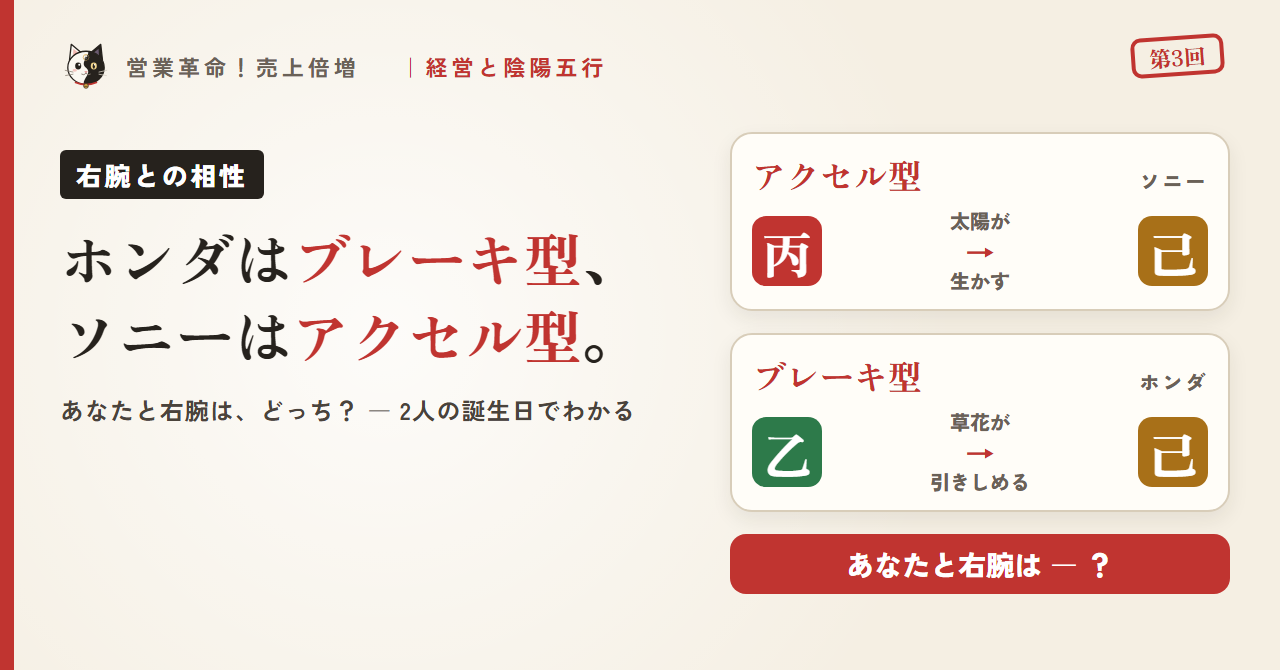
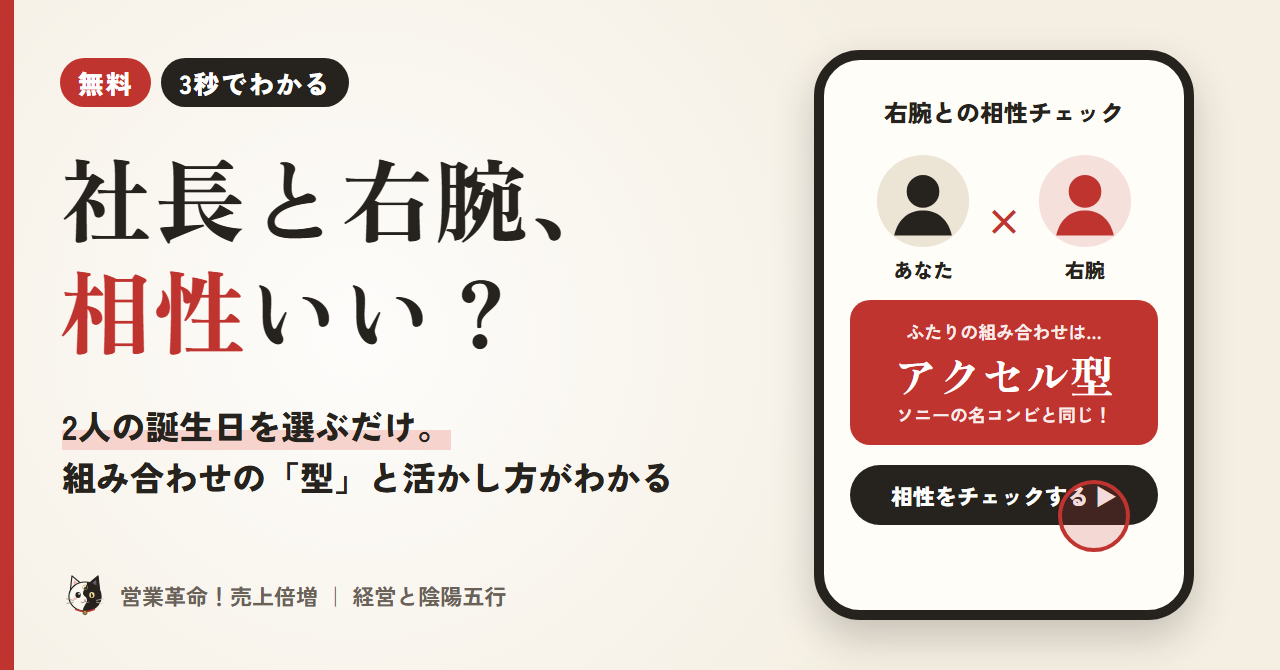
アクセス測定の準備（GA4、測定IDを入れるまで無効）と、相性チェックのシェア画像を一般向けに変更

diff --git a/index.html b/index.html
@@ -14,6 +14,7 @@
 <meta property="og:site_name" content="営業革命！売上倍増コンテンツ集">
 <meta property="og:locale" content="ja_JP">
 <meta name="twitter:card" content="summary_large_image">
+<script src="analytics.js"></script>
 <link rel="preconnect" href="https://fonts.googleapis.com">
 <link rel="preconnect" href="https://fonts.gstatic.com" crossorigin>
 <link href="https://fonts.googleapis.com/css2?family=Zen+Old+Mincho:wght@600;900&family=Zen+Kaku+Gothic+New:wght@400;700;900&display=swap" rel="stylesheet">
@@ -269,12 +270,16 @@ footer { text-align: center; font-size: .8rem; color: var(--ink-soft); padding: 
     const text = `わたしの日干は「${t.k}（${t.yomi}）＝${t.tatoe}」でした。あなたは10人のうちだれ？ #経営と陰陽五行`;
     $('shareX').href = 'https://twitter.com/intent/tweet?text=' + encodeURIComponent(text) + '&url=' + encodeURIComponent(url);
     $('shareLine').href = 'https://social-plugins.line.me/lineit/share?url=' + encodeURIComponent(url) + '&text=' + encodeURIComponent(text);
+    $('shareX').onclick = () => qmTrack('share', { tool: 'nikkan', method: 'x' });
+    $('shareLine').onclick = () => qmTrack('share', { tool: 'nikkan', method: 'line' });
     $('copy').onclick = () => {
+      qmTrack('share', { tool: 'nikkan', method: 'copy' });
       (navigator.clipboard ? navigator.clipboard.writeText(url) : Promise.reject())
         .then(() => { $('copy').textContent = 'コピーしました'; })
         .catch(() => { prompt('このリンクをコピーしてください', url); });
     };
 
+    qmTrack('check_done', { tool: 'nikkan', result: t.k + '_' + t.tatoe });
     $('result').hidden = false;
     $('hero').scrollIntoView({ behavior: 'smooth', block: 'start' });
   }

diff --git a/aisho.html b/aisho.html
@@ -14,6 +14,7 @@
 <meta property="og:site_name" content="営業革命！売上倍増コンテンツ集">
 <meta property="og:locale" content="ja_JP">
 <meta name="twitter:card" content="summary_large_image">
+<script src="analytics.js"></script>
 <link rel="preconnect" href="https://fonts.googleapis.com">
 <link rel="preconnect" href="https://fonts.gstatic.com" crossorigin>
 <link href="https://fonts.googleapis.com/css2?family=Zen+Old+Mincho:wght@600;900&family=Zen+Kaku+Gothic+New:wght@400;700;900&display=swap" rel="stylesheet">
@@ -241,11 +242,15 @@ footer { text-align: center; font-size: .8rem; color: var(--ink-soft); padding: 
     const text = `わたしと右腕は「${t.name}${t.alias ? '（' + t.alias + '）' : ''}」でした。あなたの会社は？ #経営と陰陽五行`;
     $('shareX').href = 'https://twitter.com/intent/tweet?text=' + encodeURIComponent(text) + '&url=' + encodeURIComponent(url);
     $('shareLine').href = 'https://social-plugins.line.me/lineit/share?url=' + encodeURIComponent(url) + '&text=' + encodeURIComponent(text);
+    $('shareX').onclick = () => qmTrack('share', { tool: 'aisho', method: 'x' });
+    $('shareLine').onclick = () => qmTrack('share', { tool: 'aisho', method: 'line' });
     $('copy').onclick = () => {
+      qmTrack('share', { tool: 'aisho', method: 'copy' });
       (navigator.clipboard ? navigator.clipboard.writeText(url) : Promise.reject())
         .then(() => { $('copy').textContent = 'コピーしました'; })
         .catch(() => { prompt('このリンクをコピーしてください', url); });
     };
+    qmTrack('check_done', { tool: 'aisho', result: t.name });
     $('result').hidden = false;
     $('main').scrollIntoView({ behavior: 'smooth', block: 'start' });
   }

diff --git a/analytics.js b/analytics.js
@@ -1,0 +1,19 @@
+/* アクセス測定（Google Analytics 4）
+ * GA_ID に GA4 の「測定ID」（G-XXXXXXXXXX）を入れると測定が始まる。空のあいだは何もしない。
+ * 送るのは「ページを見た」「チェックした（結果の型）」「シェアを押した」だけ。生年月日や呼び名は送らない。
+ */
+(() => {
+  'use strict';
+  const GA_ID = '';   // ← ここに測定IDを入れる（例：'G-ABC123XYZ9'）
+  window.qmTrack = () => {};
+  if (!/^G-[A-Z0-9]+$/.test(GA_ID)) return;
+  const s = document.createElement('script');
+  s.async = true;
+  s.src = 'https://www.googletagmanager.com/gtag/js?id=' + GA_ID;
+  document.head.append(s);
+  window.dataLayer = window.dataLayer || [];
+  window.gtag = function () { dataLayer.push(arguments); };
+  gtag('js', new Date());
+  gtag('config', GA_ID);
+  window.qmTrack = (name, params) => gtag('event', name, params || {});
+})();
